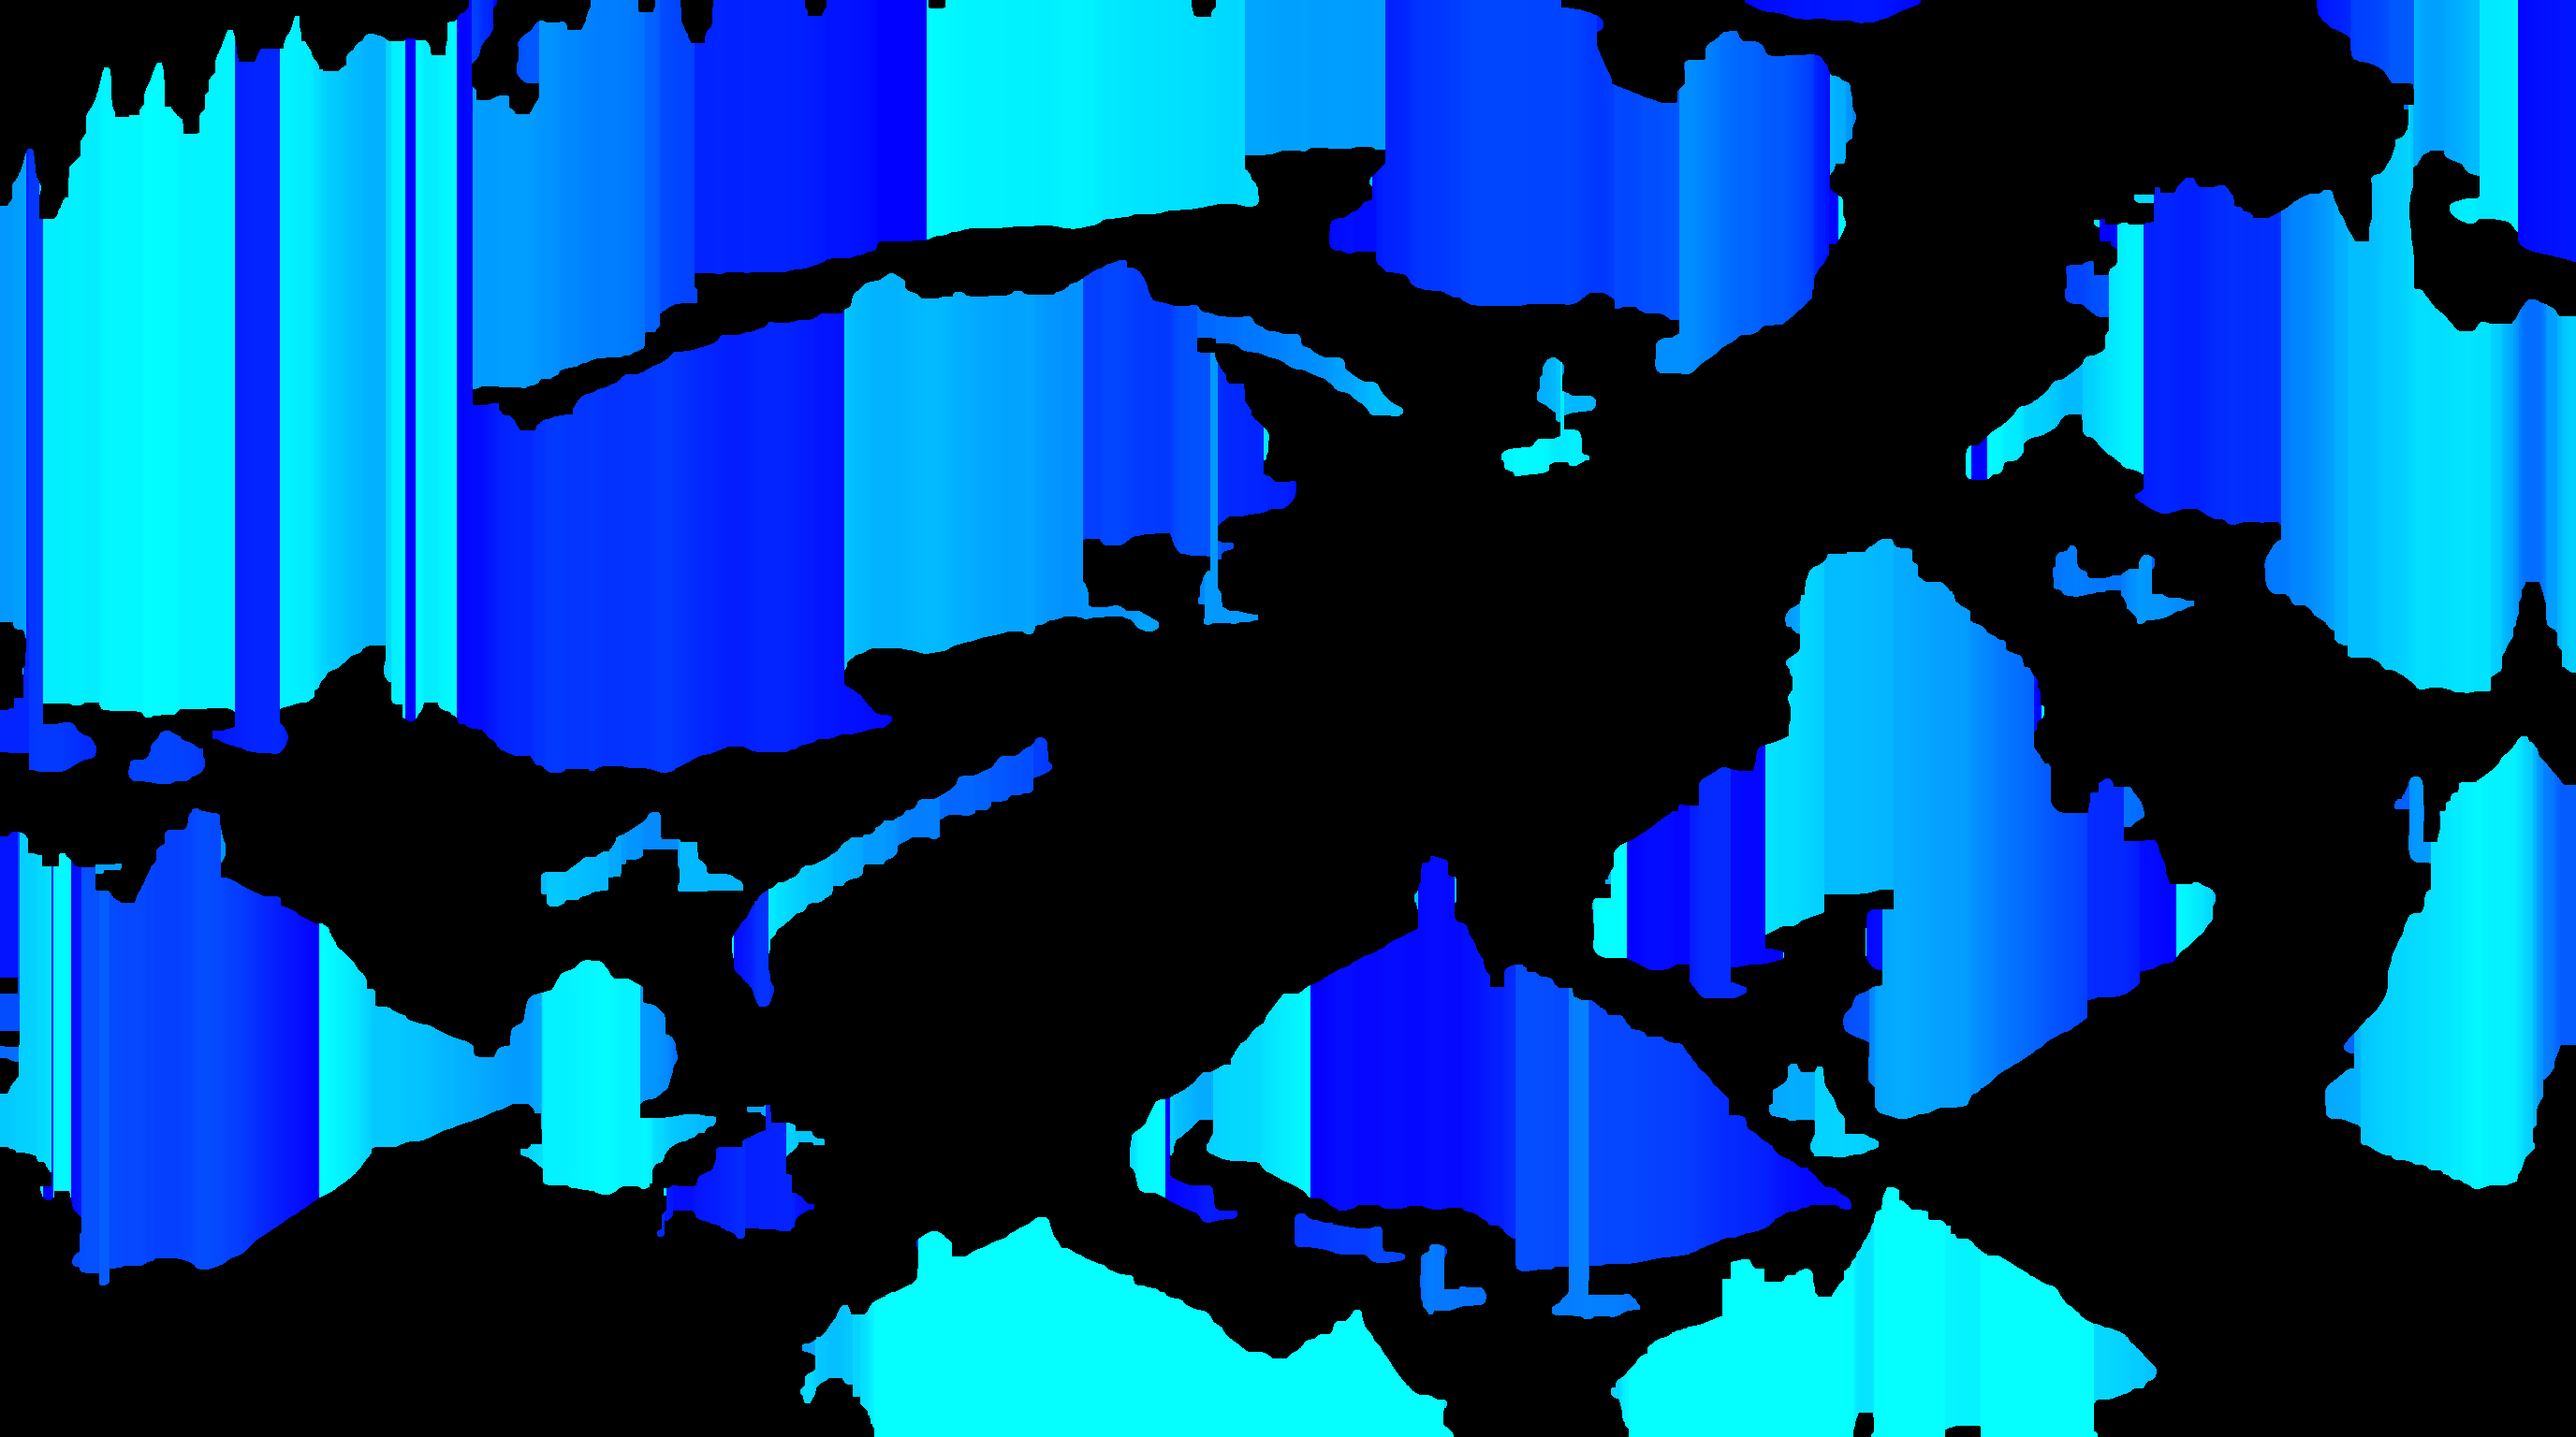
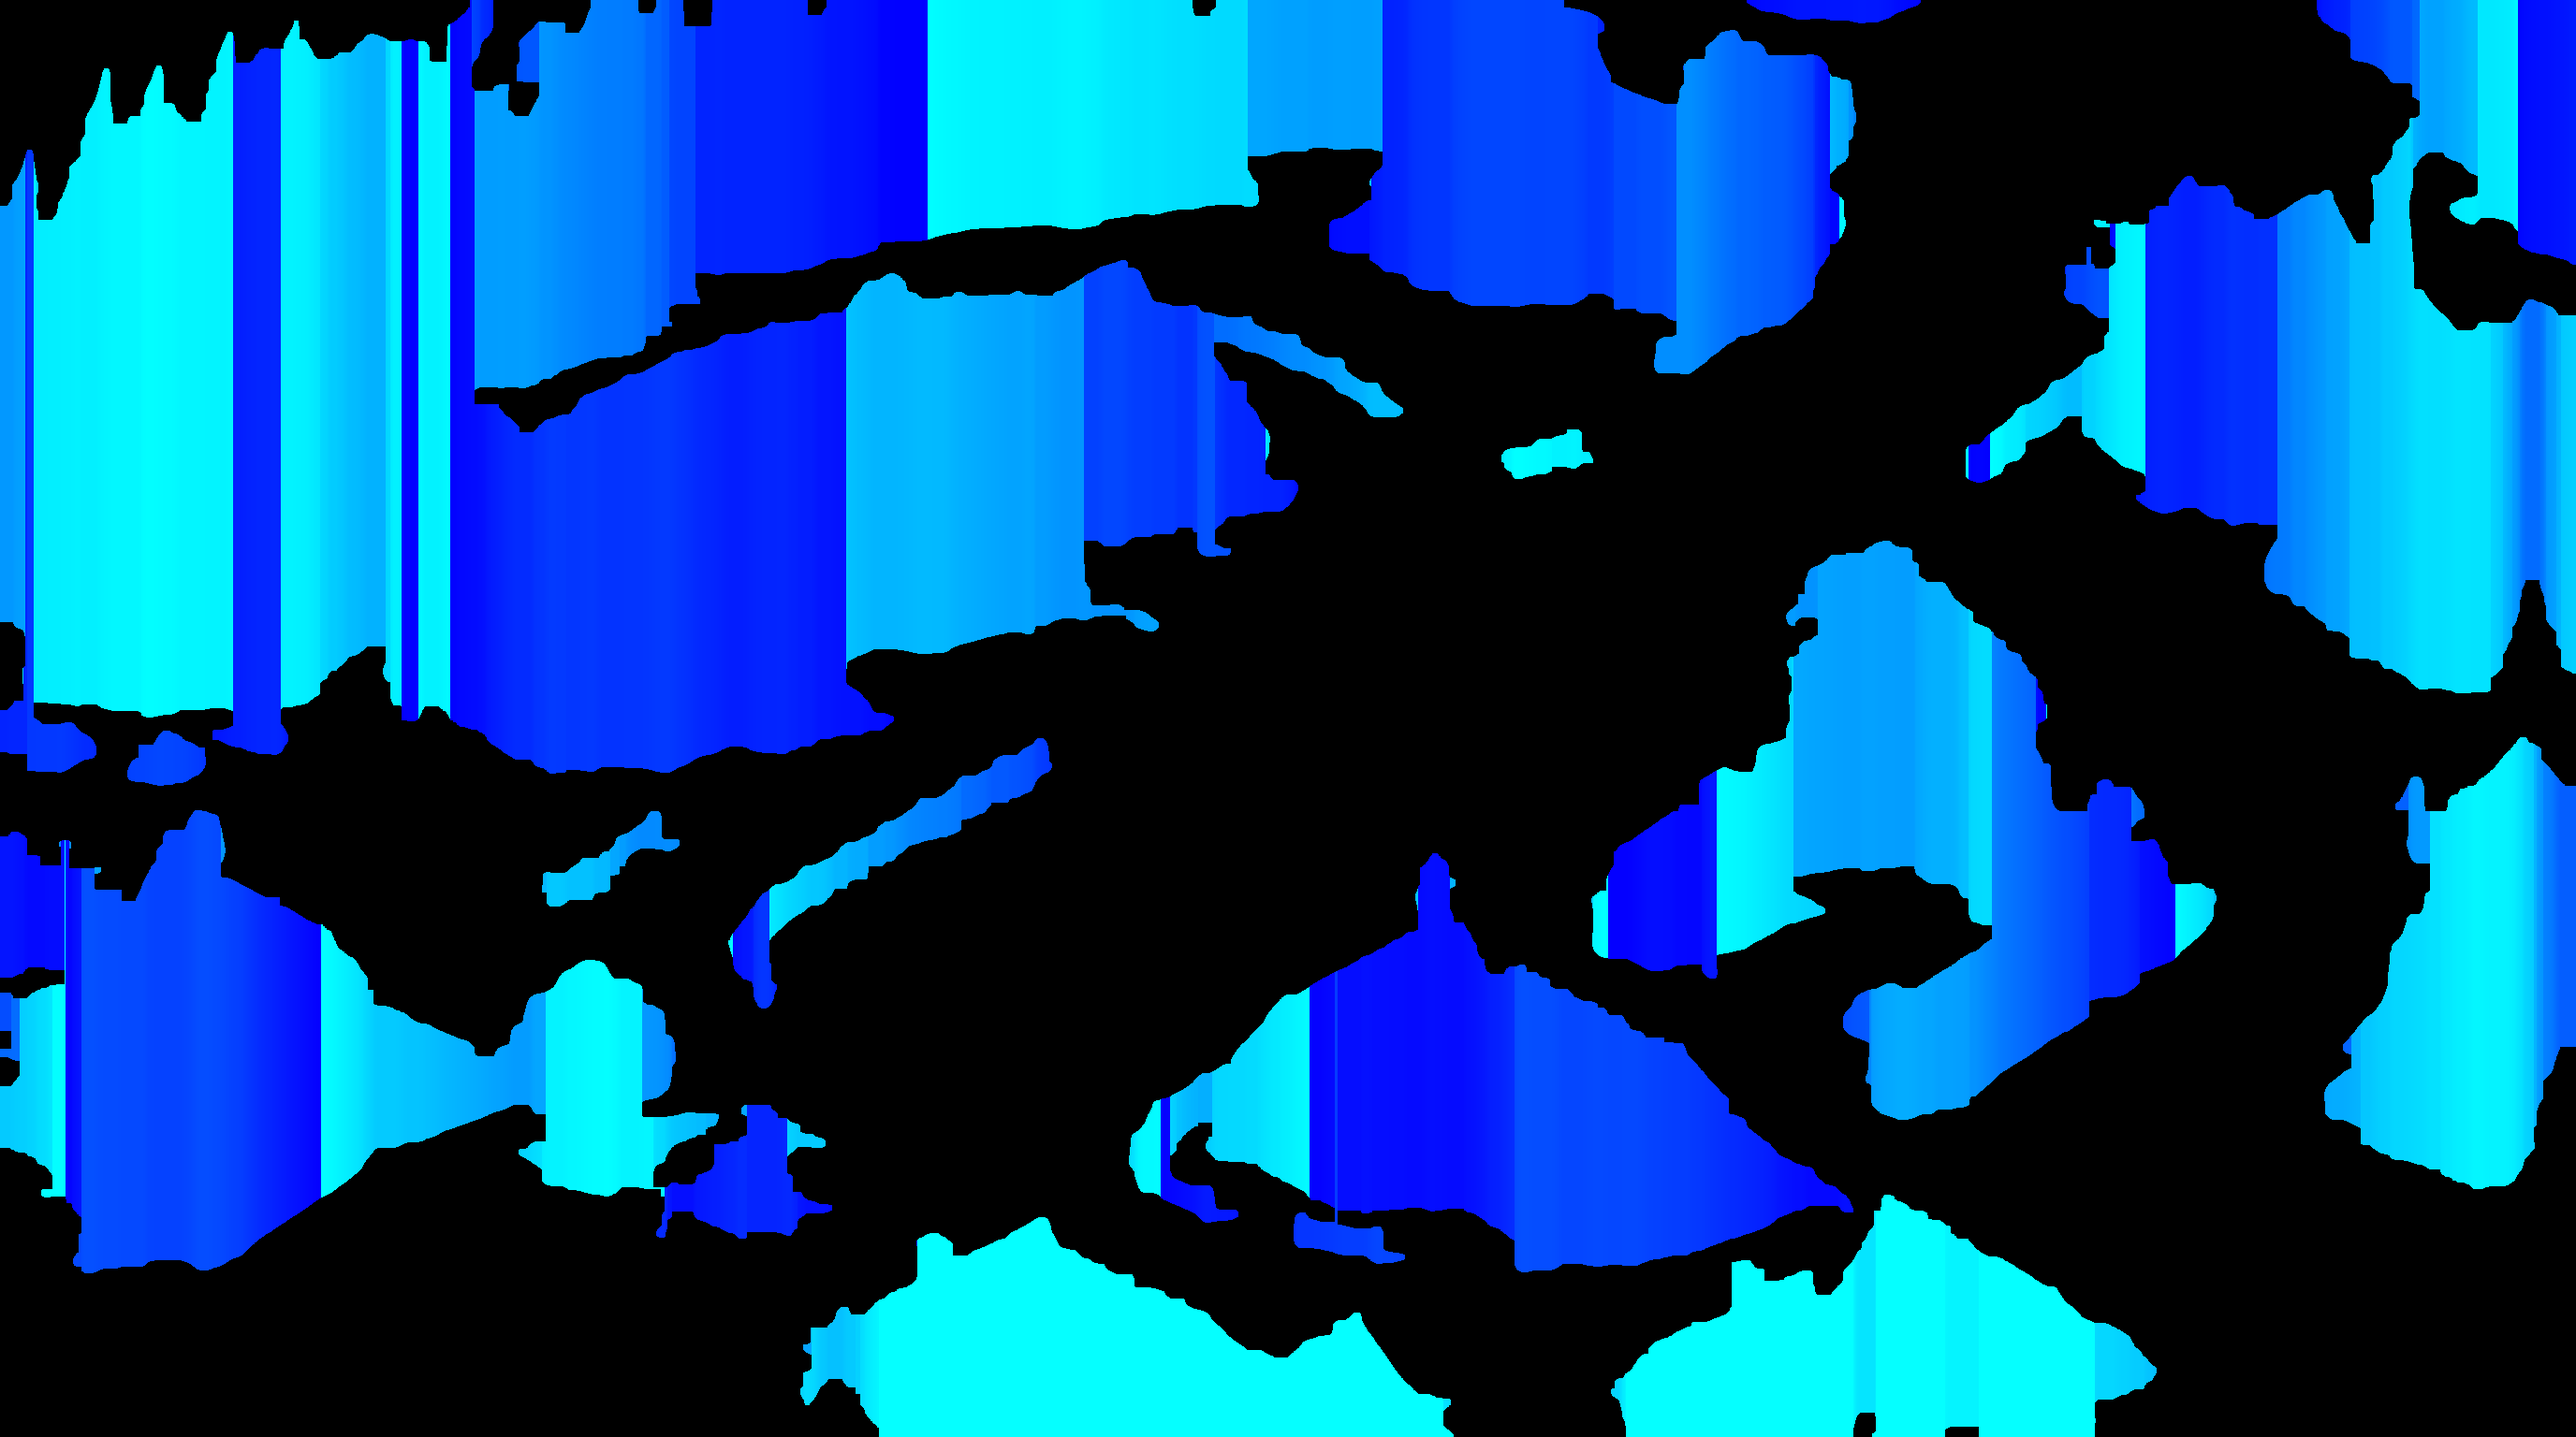
Vila de teste: cena sem pessoas e colisão pintada no editor
- Objetos recortados da cena nova, sem pessoas
- Colisão vem da máscara pintada no editor (branco anda, preto bloqueia), escalada para o mapa
- Início num caminho livre da máscara

Claude-Session: https://claude.ai/code/session_01CGVLTDGSSxihYWLuUwRgVi

diff --git a/confusion/web/teste-quarteirao/vila.js b/confusion/web/teste-quarteirao/vila.js
@@ -1,6 +1,6 @@
 // Vila de teste. Chão limpo (piso-vila) + camada de objetos (vila-objetos) recortada da cena completa.
 // Cada pixel de objeto sabe a linha do chão onde encosta (vila-base): se o pé do personagem está acima dessa linha,
-// ele passa atrás do objeto; se está abaixo, na frente. Colisão: água + pegada dos objetos (grade de 8 px).
+// ele passa atrás do objeto; se está abaixo, na frente. Colisão: máscara pintada no editor (branco = anda).
 import * as THREE from 'three';
 import { vetorJoystick } from '../explorar3d/controles.js';
 import { resolverMovimento } from '../explorar3d/colisao.js';
@@ -95,7 +95,7 @@ caixa(LARG / 2, 80, -ALT / 2 - 2, ALT / 2 + 2);    // leste
 
 // obstáculos pintados na imagem: grade de células de 8 px (172 x 96) desenhada no editor de colisão
 // (confusion/web/teste-quarteirao/editor-colisao.html). Cada célula 1 bloqueia. A grade vira retângulos (caixasDaGrade).
-const COLISAO = { celula: 8, colunas: 344, linhas: 192, rle: "255,1,17,21,285,6,1,2,7,3,17,22,291,12,17,22,19,3,95,2,147,1,54,23,20,3,94,2,202,22,23,1,93,2,203,21,25,4,89,1,207,17,26,5,88,1,211,6,2,4,27,8,91,3,213,1,30,6,91,3,246,4,91,3,247,3,536,15,139,2,184,19,138,6,181,19,137,9,179,19,137,9,179,19,61,2,74,9,168,4,3,23,60,2,19,1,55,9,159,39,59,3,75,13,135,59,59,3,13,1,61,14,125,53,74,3,75,2,2,12,117,55,78,2,13,2,4,3,54,1,4,17,97,11,1,57,19,1,58,1,14,10,60,15,95,71,19,4,71,10,61,13,94,72,19,9,65,11,61,13,93,74,18,11,14,3,29,2,15,1,1,9,61,13,89,3,1,75,17,28,29,2,8,2,10,5,16,1,45,13,88,74,4,2,17,29,28,2,7,3,11,4,62,13,88,67,30,30,25,4,7,5,9,1,61,17,86,61,38,31,19,1,2,7,5,6,72,3,3,10,86,48,8,3,38,36,12,15,4,8,78,8,86,40,55,42,7,16,4,9,21,2,54,8,83,35,59,47,5,16,5,11,1,1,4,1,14,1,53,8,78,39,61,46,3,17,6,11,1,2,2,2,70,6,75,39,70,40,2,18,6,15,77,2,73,36,75,59,8,14,151,25,2,1,86,57,8,16,140,5,3,22,95,54,9,16,140,30,96,53,9,16,9,1,130,30,100,19,3,27,10,15,9,4,127,30,103,15,5,25,11,15,9,6,125,26,130,21,12,15,12,3,125,25,135,16,12,16,140,25,136,13,14,16,140,24,73,5,59,11,15,17,140,23,76,6,56,8,17,2,3,13,140,23,79,6,53,6,19,2,3,12,141,21,85,4,51,5,20,2,2,12,142,15,93,4,46,7,20,15,144,12,99,3,44,5,21,15,145,11,102,3,66,13,1,1,23,3,121,8,107,2,65,16,21,4,237,3,24,2,36,17,21,4,239,2,22,3,34,18,16,2,4,12,232,3,22,6,28,19,15,5,1,16,230,4,21,1,32,19,13,3,2,27,281,19,10,4,3,27,284,15,10,4,4,27,184,8,55,1,39,11,11,2,7,26,184,11,52,1,42,6,11,2,10,25,184,12,50,4,42,3,11,3,11,24,184,15,45,7,54,3,14,22,184,15,3,3,35,6,56,5,16,21,184,15,3,4,35,2,59,3,20,19,32,2,150,17,1,6,117,19,32,3,149,17,1,6,117,20,30,4,149,17,1,10,113,23,27,4,146,20,1,9,114,24,26,4,4,2,137,23,1,6,119,2,4,17,25,4,4,3,131,3,1,26,133,15,24,5,3,4,126,33,142,7,23,7,2,4,45,2,76,26,3,7,142,8,22,7,2,4,43,5,62,31,2,3,7,6,142,9,20,8,2,4,42,6,61,32,12,7,141,13,16,8,2,4,40,8,61,32,16,2,142,15,14,9,1,4,39,9,61,32,17,1,142,16,12,15,39,9,61,32,17,1,141,19,10,15,38,10,61,32,17,1,61,1,49,3,25,46,37,11,61,32,17,1,60,13,38,10,19,34,2,9,2,8,24,16,2,3,54,32,17,1,62,3,5,3,40,3,4,2,20,32,3,8,2,13,2,10,6,17,2,5,52,32,15,3,69,5,47,3,19,31,3,8,2,25,6,24,52,32,16,2,69,2,1,1,48,8,16,28,4,8,2,25,6,27,49,29,2,4,2,1,10,3,1,1,1,1,117,4,20,27,4,4,2,2,2,25,6,28,46,28,13,2,7,1,77,1,71,25,4,4,6,26,5,29,41,28,1,2,174,24,5,3,6,29,2,31,27,36,89,1,91,23,6,3,6,43,2,20,21,35,102,3,81,22,7,2,6,42,3,22,7,4,6,25,114,3,82,20,8,2,3,43,5,62,117,1,86,17,8,2,3,42,6,62,116,2,88,15,9,1,3,40,8,62,116,1,91,12,14,40,9,61,209,11,14,39,10,61,215,3,16,39,10,61,98,2,2,3,129,3,7,25,16,3,2,54,97,5,1,2,129,3,13,4,8,6,17,2,4,53,92,1,3,8,55,1,74,3,25,6,24,58,84,3,2,9,130,3,25,6,27,53,83,18,126,6,23,1,1,7,27,47,87,19,4,1,121,6,24,8,28,42,90,20,3,4,119,6,2,5,20,5,29,29,5,4,92,27,124,8,59,22,103,27,125,6,10,7,45,9,2,8,47,2,54,23,3,2,139,10,110,2,50,3,2,22,147,5,110,4,49,28,29,9,223,6,48,26,32,9,221,5,51,24,34,9,218,6,54,22,33,11,67,2,147,5,59,17,34,13,31,2,248,11,39,13,31,2,179,5,66,7,40,14,31,1,146,1,32,6,67,5,41,14,69,2,106,2,31,2,73,2,43,14,69,2,104,6,27,3,119,14,69,2,49,1,53,3,29,4,118,16,69,3,101,1,30,5,118,17,104,1,67,2,8,2,19,3,121,17,170,3,9,3,17,3,121,18,163,1,3,5,10,8,10,3,122,19,164,6,28,4,120,18,168,3,30,4,121,13,204,4,115,3,5,13,203,3,110,10,1,15,38,4,9,3,48,2,101,2,52,2,1,10,45,25,39,5,2,3,2,4,49,2,101,1,52,15,44,22,42,5,1,9,50,2,151,18,42,23,36,2,4,15,51,2,151,18,42,23,13,2,19,4,2,16,50,5,144,4,4,16,42,23,13,2,17,23,50,6,95,3,43,6,6,16,46,19,12,2,16,23,50,7,95,5,40,7,6,15,49,3,3,5,19,1,15,22,52,7,96,4,39,7,7,13,57,5,33,22,54,4,100,3,38,8,4,14,59,5,32,23,53,5,100,3,37,26,61,6,30,22,54,5,101,2,36,26,93,22,59,5,136,27,90,26,60,5,134,26,93,26,59,9,131,25,88,2,4,25,60,9,131,23,89,4,3,24,61,6,130,27,91,2,2,23,63,6,3,2,124,5,1,21,95,22,64,7,3,3,122,26,97,21,41,1,23,5,3,6,119,25,99,20,55,1,10,5,6,4,63,2,13,5,34,10,2,12,102,19,54,5,8,5,6,4,62,3,13,5,34,17,2,3,103,18,54,9,2,9,6,6,59,4,13,5,35,15,110,16,53,21,7,7,56,6,13,4,38,13,110,15,54,21,7,7,31,31,13,3,41,10,50,5,56,13,51,26,7,8,28,34,2,5,52,7,21,2,25,9,42,4,8,13,48,28,7,9,26,29,5,15,15,1,26,2,6,1,22,3,5,6,8,16,39,6,9,7,53,28,7,9,25,28,8,14,43,3,26,4,3,33,40,4,11,2,56,28,5,11,23,27,11,14,7,2,62,2,3,37,43,2,71,24,5,11,22,26,13,14,4,4,62,2,4,37,2,1,40,3,70,23,6,11,21,24,16,14,3,3,13,4,47,1,5,40,40,4,69,23,7,10,9,5,5,20,22,14,1,3,9,2,4,1,50,1,4,41,40,9,66,21,10,7,4,12,1,21,21,16,1,2,8,5,60,41,40,4,72,19,12,7,2,34,23,16,9,6,48,1,1,3,12,42,112,15,14,41,24,15,10,7,47,5,13,41,2,5,109,11,14,40,25,15,8,9,48,4,15,39,2,15,100,9,15,38,31,11,5,16,44,4,17,37,2,19,99,3,17,1,2,35,36,2,10,17,45,3,17,36,2,23,1,7,110,33,48,21,45,4,17,33,2,34,108,31,48,23,46,4,16,3,4,3,3,3,1,46,5,1,108,28,50,24,47,5,32,41,117,27,52,22,87,38,118,25,52,22,91,34,120,24,53,21,64,4,25,29,124,23,54,12,1,6,66,10,19,26,127,21,56,11,2,6,71,7,17,24,128,10,5,5,58,3,2,6,3,4,77,4,15,18,134,6,10,2,60,3,2,5,4,4,97,5,1,3,145,2,71,5,2,3,7,2,104,3,145,1,71,5,3,4,6,1,105,3,210,2,4,6,4,3,93,3,16,3,208,4,2,7,5,3,93,3,2,3,11,3,203,3,1,2,2,10,6,1,94,7,12,3,4,3,195,3,6,9,119,10,194,2,2,2,7,8,322,3,1,2,8,8,321,4,1,1,8,9,322,2,2,1,8,7,166,2,158,3,5,4,1,3,23,2,3,1,135,9,142,1,5,2,1,1,1,11,1,2,31,3,10,2,9,6,107,16,134,2,3,5,2,9,2,2,30,6,8,4,3,14,103,18,132,11,1,13,31,7,6,27,82,4,5,2,4,25,9,8,108,25,32,1,3,4,2,36,75,13,2,30,5,7,108,24,33,1,5,47,20,1,48,47,3,6,109,22,34,2,5,50,14,5,32,2,7,59,111,21,44,52,6,12,31,1,3,60,113,20,47,70,30,64,111,21,48,73,28,31,2,30,109,16,1,5,49,77,24,31,2,30,108,21,52,77,23,31,2,10,4,16,64" };
+const COLISAO = { celula: 8, colunas: 344, linhas: 192, rle: "0,203,47,45,23,225,52,43,23,223,55,42,23,221,59,40,24,217,71,31,24,215,85,19,24,213,26,6,61,14,24,211,25,10,63,11,23,211,26,10,66,6,25,211,24,13,67,3,25,212,23,13,96,211,22,16,8,9,78,209,23,17,7,15,2,11,59,209,21,22,5,31,56,207,21,26,1,36,54,203,22,72,49,200,20,81,45,192,4,1,19,87,43,188,23,94,43,183,22,100,40,182,20,102,41,181,20,101,44,179,20,101,46,176,21,100,48,170,26,95,54,164,30,96,55,159,32,97,29,10,18,154,35,97,29,12,19,148,38,98,27,14,21,122,12,2,48,97,26,17,21,117,66,96,26,19,21,111,71,96,26,21,20,100,81,27,2,67,24,24,20,95,86,10,3,11,7,63,23,26,21,90,92,3,10,8,12,59,21,29,21,85,110,6,16,56,20,31,21,81,114,4,18,55,18,33,22,78,118,2,20,53,17,35,21,76,121,1,23,49,17,37,20,74,148,48,16,39,19,73,149,46,17,41,18,71,49,33,70,45,16,43,17,69,43,46,65,44,16,45,16,67,38,58,60,44,15,48,14,65,34,69,55,43,15,50,13,63,34,74,52,43,15,52,11,54,40,80,49,42,15,55,9,52,39,85,46,42,15,58,7,51,38,90,42,43,14,61,5,50,37,94,39,43,14,64,3,48,36,98,38,43,14,65,2,47,35,100,37,43,15,66,1,46,35,101,38,41,14,114,34,103,40,38,14,114,33,104,46,32,14,114,32,89,1,15,49,30,12,115,32,89,5,11,53,26,12,115,32,88,11,7,56,21,13,114,33,88,11,7,29,4,27,18,12,114,31,90,11,7,28,8,29,13,12,10,2,102,31,91,10,8,18,20,30,10,10,12,3,101,30,91,11,7,18,23,31,8,8,12,5,99,30,91,11,7,18,27,31,5,6,13,7,98,29,91,12,6,19,31,29,3,5,12,11,95,29,91,12,6,19,35,28,16,14,94,28,91,13,5,19,39,26,14,18,90,28,91,14,5,18,43,23,13,21,88,28,90,15,4,18,47,19,13,22,87,27,91,16,3,18,51,16,12,24,86,26,91,18,2,17,56,12,11,25,85,26,91,37,60,10,8,28,83,26,92,36,63,9,6,31,81,26,91,36,66,8,4,33,79,26,91,37,69,44,77,26,90,37,72,43,75,26,72,8,11,36,75,43,73,26,69,14,7,36,77,43,72,25,68,17,3,38,81,41,71,25,67,58,83,40,71,25,65,59,86,38,71,24,65,59,89,36,71,24,64,60,91,36,69,23,63,61,92,38,67,23,62,61,94,38,66,22,61,62,96,39,63,23,60,62,99,38,61,24,59,62,102,36,60,25,58,61,106,35,58,26,57,59,113,33,56,26,55,59,119,32,51,28,54,55,130,28,48,30,52,55,134,28,43,32,50,56,138,28,38,34,49,57,141,27,32,39,47,59,141,28,25,44,46,60,142,30,18,49,44,63,141,31,11,54,43,65,140,32,10,54,29,81,139,32,9,32,2,20,28,63,1,20,137,32,9,30,6,19,26,62,3,21,136,32,9,28,12,15,25,60,7,22,134,32,9,25,16,15,24,57,11,23,132,32,9,23,18,16,22,56,14,23,131,31,12,18,22,15,22,54,18,23,129,25,1,3,17,12,25,16,22,50,23,22,128,24,25,5,30,16,21,48,27,23,125,24,60,16,21,46,32,23,122,23,62,16,21,44,35,25,118,23,63,16,21,41,39,25,115,23,64,17,21,38,43,25,59,2,52,23,65,17,25,32,45,26,54,7,50,22,66,18,24,30,49,26,50,11,47,23,67,18,22,30,52,26,46,14,46,22,69,17,21,29,55,26,43,16,45,22,71,17,20,27,58,26,40,18,44,23,72,18,18,26,61,26,36,21,43,22,74,18,16,25,64,30,30,24,5,3,33,22,74,21,13,23,67,31,26,27,1,8,30,22,76,25,5,24,70,31,23,39,29,21,78,51,75,29,21,41,28,20,80,48,80,27,18,44,27,20,81,44,84,28,15,45,27,19,83,41,89,27,11,47,27,18,85,40,90,27,8,49,26,18,87,39,92,26,6,50,25,19,88,38,93,27,2,51,25,18,91,37,94,79,23,19,94,36,95,76,23,19,97,35,96,73,22,21,98,35,97,69,23,20,99,37,99,64,24,20,100,38,100,60,25,20,4,2,94,41,100,55,26,21,5,3,92,44,99,53,26,21,5,5,91,48,97,48,28,21,6,6,89,51,96,44,30,22,5,7,88,53,97,40,32,35,87,55,96,39,31,36,86,57,97,37,30,37,85,60,96,36,29,37,84,63,97,35,27,21,3,14,83,66,96,34,26,22,2,15,82,69,96,33,24,22,2,15,82,40,4,27,96,32,23,22,2,14,83,41,6,27,96,30,21,23,2,13,84,42,8,26,96,30,18,25,2,13,82,44,10,25,97,28,16,26,2,15,79,31,3,12,12,25,96,28,13,27,3,17,75,32,4,12,14,26,94,27,11,28,4,24,19,4,44,31,7,10,16,27,93,27,7,30,6,24,16,6,42,32,9,9,16,31,90,26,5,32,6,25,14,7,41,32,12,5,19,32,89,26,1,34,8,25,12,8,39,32,39,37,84,60,9,24,10,10,38,32,42,37,82,60,10,24,8,11,37,32,45,36,82,59,10,26,5,12,36,31,49,34,84,57,11,42,34,31,53,33,85,55,13,40,33,29,58,32,84,55,14,39,31,30,59,34,82,55,16,37,29,31,60,35,81,55,16,37,27,31,62,37,1,3,71,59,16,37,26,31,60,47,64,64,15,37,24,31,61,52,55,71,12,37,24,31,60,74,28,80,9,37,23,32,60,90,9,87,6,36,23,32,60,22,2,165,4,35,23,31,61,23,4,123,3,39,1,15,2,17,24,31,61,22,9,118,7,52,6,12,24,32,61,22,12,114,11,50,40,33,61,22,15,110,16,46,38,35,62,22,18,105,20,44,36,36,62,18,25,100,25,41,36,36,63,17,26,98,29,39,35,36,65,15,29,94,32,38,34,36,66,14,31,90,36,38,32,36,67,13,37,82,40,39,29,36,69,11,40,76,45,39,26,37,71,9,44,70,50,38,24,37,74,4,52,62,54,39,22,36,142,46,60,39,20,37,152,31,66,40,18,36,161,18,72,41,16,34,255,40,15,34,256,42,12,33,258,45,8,32,260,47,5,31,262,48,3,30,264,49,1,30,266,77,268,75,271,45" };
 // RLE: contagens alternadas de células livres e bloqueadas, começando por livre
 function decodificarGrade({ rle, colunas, linhas }) {
   const grade = new Uint8Array(colunas * linhas);
@@ -225,7 +225,7 @@ const sombra = (() => {
 
 // ---- entrada: teclado e joystick de toque ----
 const teclas = new Set();
-const INICIO = P(1124, 940);                 // início no caminho de pedra do centro
+const INICIO = P(1348, 836);                 // início num caminho livre da máscara
 const estado = { x: INICIO.x, z: INICIO.z };
 const PRESET = { atras: P(1124, 640) };   // posição para conferir: atrás de casa
 if (PRESET[VISAO]) Object.assign(estado, PRESET[VISAO]);
